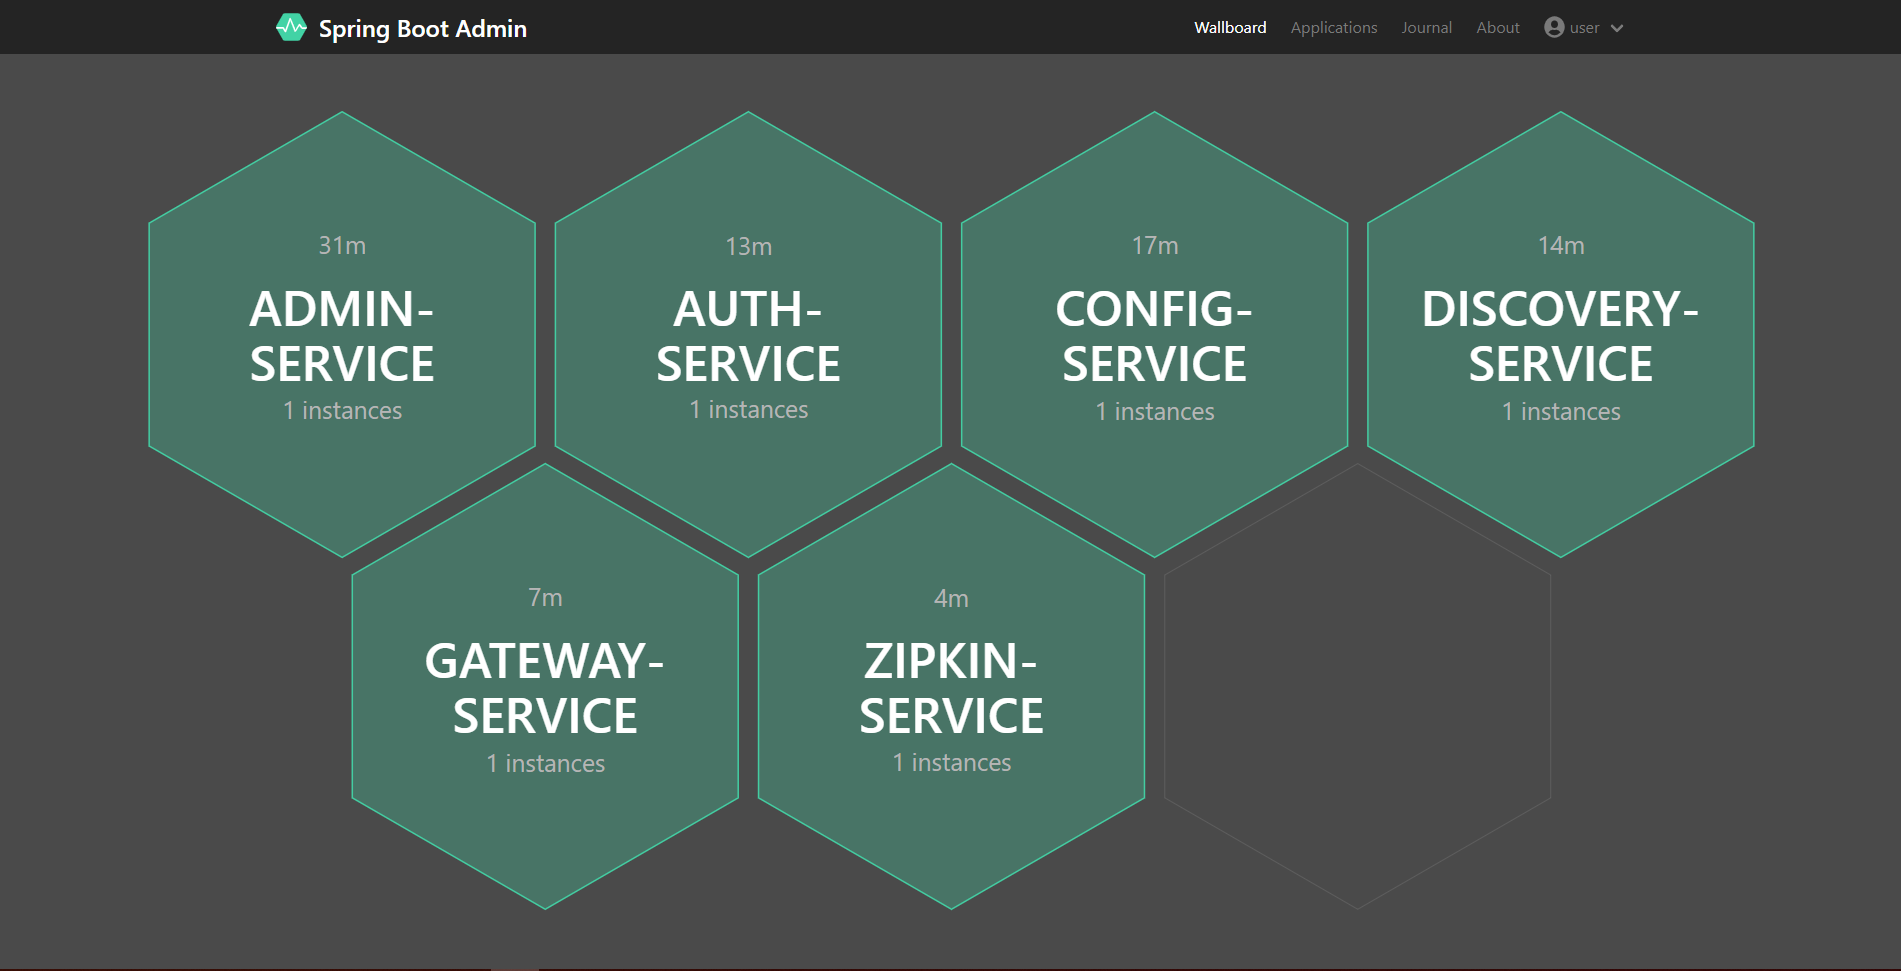
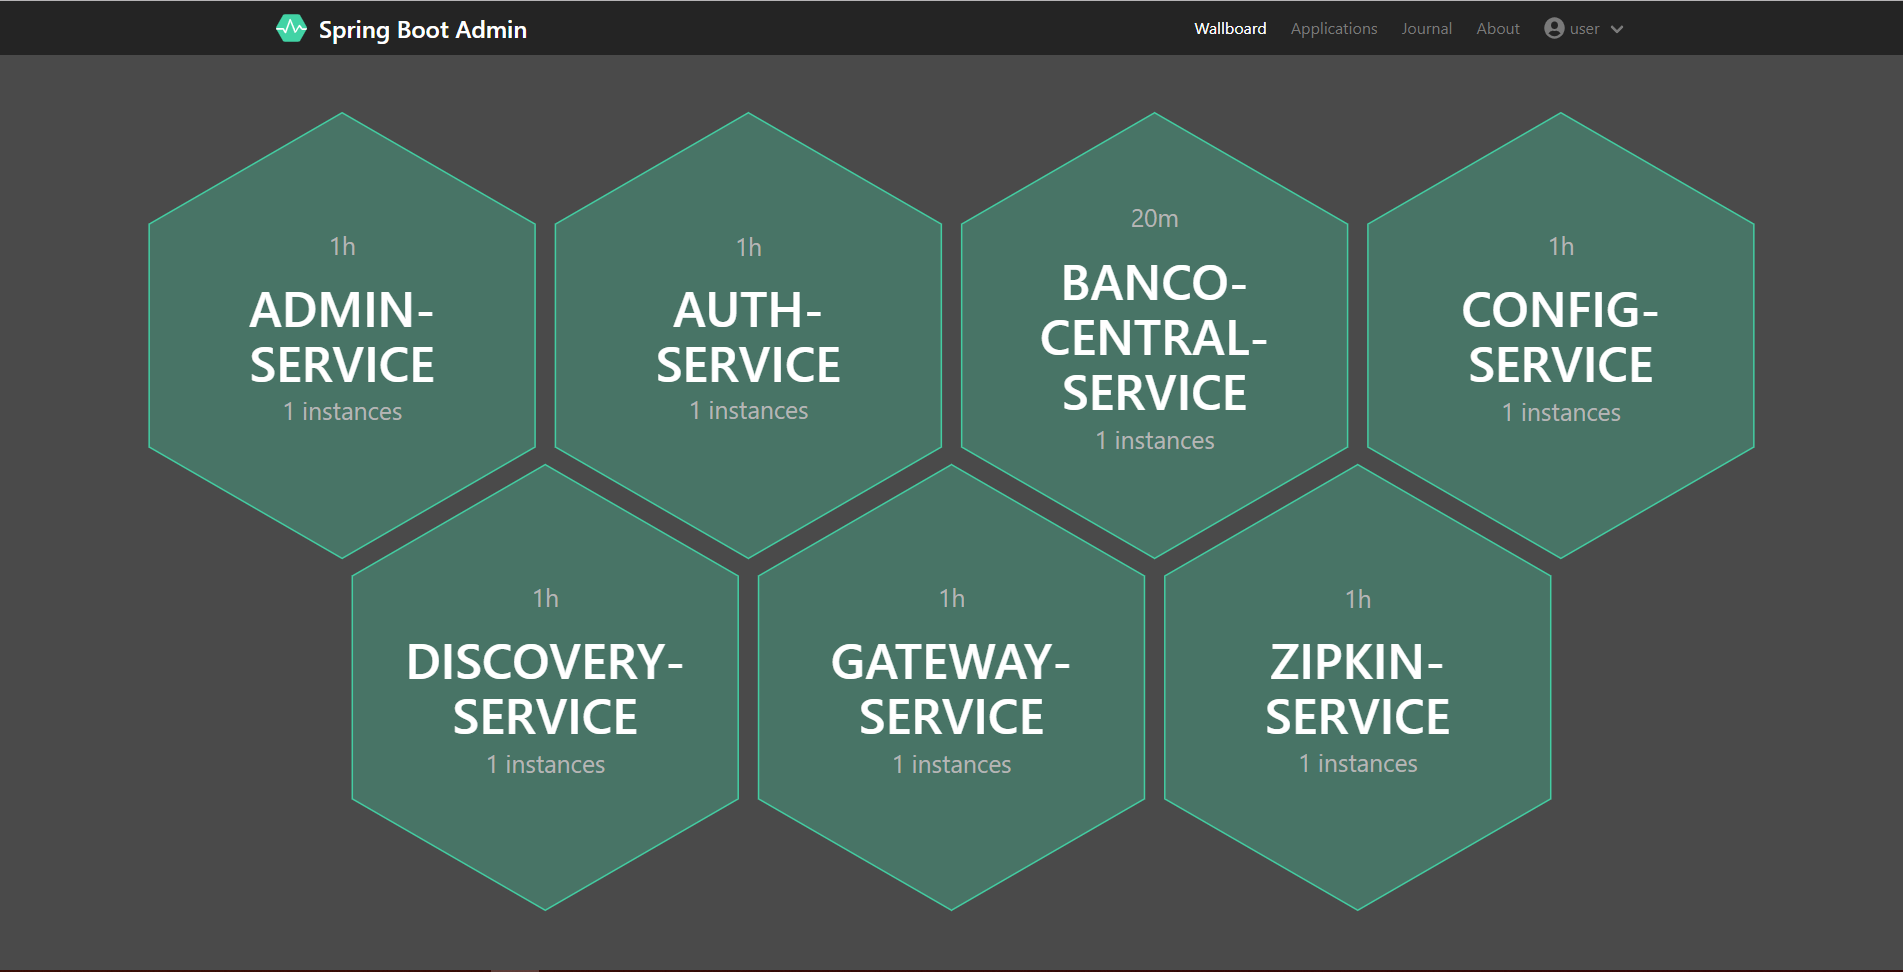
Integração Service para Admin
Resolvendo problema onde o service altamente autenticado não cedia dados de metricas para o admin, com a configuração atual esse problema não existe mais.

diff --git a/banco-central-service/src/main/java/com/nosbielc/mixed/salad/bancocentral/config/SecurityConfiguration.java b/banco-central-service/src/main/java/com/nosbielc/mixed/salad/bancocentral/config/SecurityConfiguration.java
@@ -19,17 +19,17 @@ public class SecurityConfiguration extends ResourceServerConfigurerAdapter {
     @Override
     public void configure(HttpSecurity http) throws Exception {
         http.requestMatchers()
-                .antMatchers("/**")
+                .antMatchers("/api/**")
                 .and()
                 .authorizeRequests()
                 .anyRequest()
                 .authenticated()
-                .antMatchers(HttpMethod.GET, "/**").access("#oauth2.hasScope('read')")
-                .antMatchers(HttpMethod.OPTIONS, "/**").access("#oauth2.hasScope('read')")
-                .antMatchers(HttpMethod.POST, "/**").access("#oauth2.hasScope('write')")
-                .antMatchers(HttpMethod.PUT, "/**").access("#oauth2.hasScope('write')")
-                .antMatchers(HttpMethod.PATCH, "/**").access("#oauth2.hasScope('write')")
-                .antMatchers(HttpMethod.DELETE, "/**").access("#oauth2.hasScope('write')");
+                .antMatchers(HttpMethod.GET, "/api/**").access("#oauth2.hasScope('read')")
+                .antMatchers(HttpMethod.OPTIONS, "/api/**").access("#oauth2.hasScope('read')")
+                .antMatchers(HttpMethod.POST, "/api/**").access("#oauth2.hasScope('write')")
+                .antMatchers(HttpMethod.PUT, "/api/**").access("#oauth2.hasScope('write')")
+                .antMatchers(HttpMethod.PATCH, "/api/**").access("#oauth2.hasScope('write')")
+                .antMatchers(HttpMethod.DELETE, "/api/**").access("#oauth2.hasScope('write')");
     }
 
     @Override

diff --git a/banco-central-service/src/main/java/com/nosbielc/mixed/salad/bancocentral/config/SecurityConfig.java b/banco-central-service/src/main/java/com/nosbielc/mixed/salad/bancocentral/config/SecurityConfig.java
@@ -17,6 +17,10 @@ public class SecurityConfig extends WebSecurityConfigurerAdapter {
         http.headers().frameOptions().disable();
 
 //        http.authorizeRequests()
+//                .antMatchers("/actuator/health").permitAll().anyRequest().authenticated();
+//        http.headers().frameOptions().disable();
+
+//        http.authorizeRequests()
 //                .requestMatchers(EndpointRequest.to(ShutdownEndpoint.class))
 //                .hasRole("ADMIN")
 //                .requestMatchers(EndpointRequest.to(
@@ -26,6 +30,6 @@ public class SecurityConfig extends WebSecurityConfigurerAdapter {
 //                .fullyAuthenticated()
 //                .and().httpBasic();
 
-        http.headers().frameOptions().disable();
+//        http.headers().frameOptions().disable();
     }
 }
